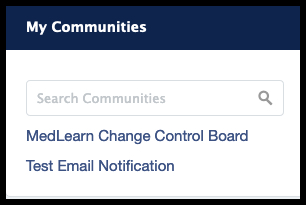
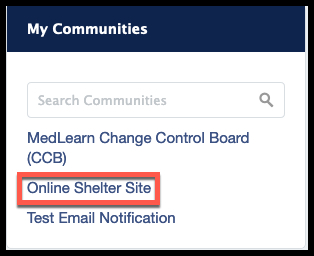
Updateing Links for GME Communities

diff --git a/docs/MedLearn_GME_Communities.md b/docs/MedLearn_GME_Communities.md
@@ -7,7 +7,7 @@
 <h3>Log in via direct link to the Shelter</h3>
 <p>The Shelter will be housed in an area of MedLearn called communities. One of the ways to log into the Shelter would be via the direct link. To log into the Shelter via the direct link:</p>
 <ol>
-<li><b>Navigate</b> to <b>TBD</b></li>
+<li><b>Navigate</b> to <a href="https://medlearn.medicine.arizona.edu/community/onlinesheltersite">Online Shelter Site</a></li>
 <li><b>Click</b> login via UA NetId WebAuth</li>
 <li>You will see the homepage for the Shelter Community</li>
 ![GME_1](./images/GME_1.jpg)
@@ -20,7 +20,7 @@
 <li><b>Login</b> with your NetID and Password</li>
 <li><b>Click</b> the Communities tab</li>
 ![GME_2](./images/GME_2.jpg)
-<li><b>Click (link TBH)</b> in the My Communities menu</li>
+<li><b>Click <a href="https://medlearn.medicine.arizona.edu/community/onlinesheltersite">here</a></b> in the My Communities menu</li>
 ![GME_3](./images/GME_3.jpg)
 <li>You will see the homepage for the Shelter Community</li>
 ![GME_1](./images/GME_1.jpg)
